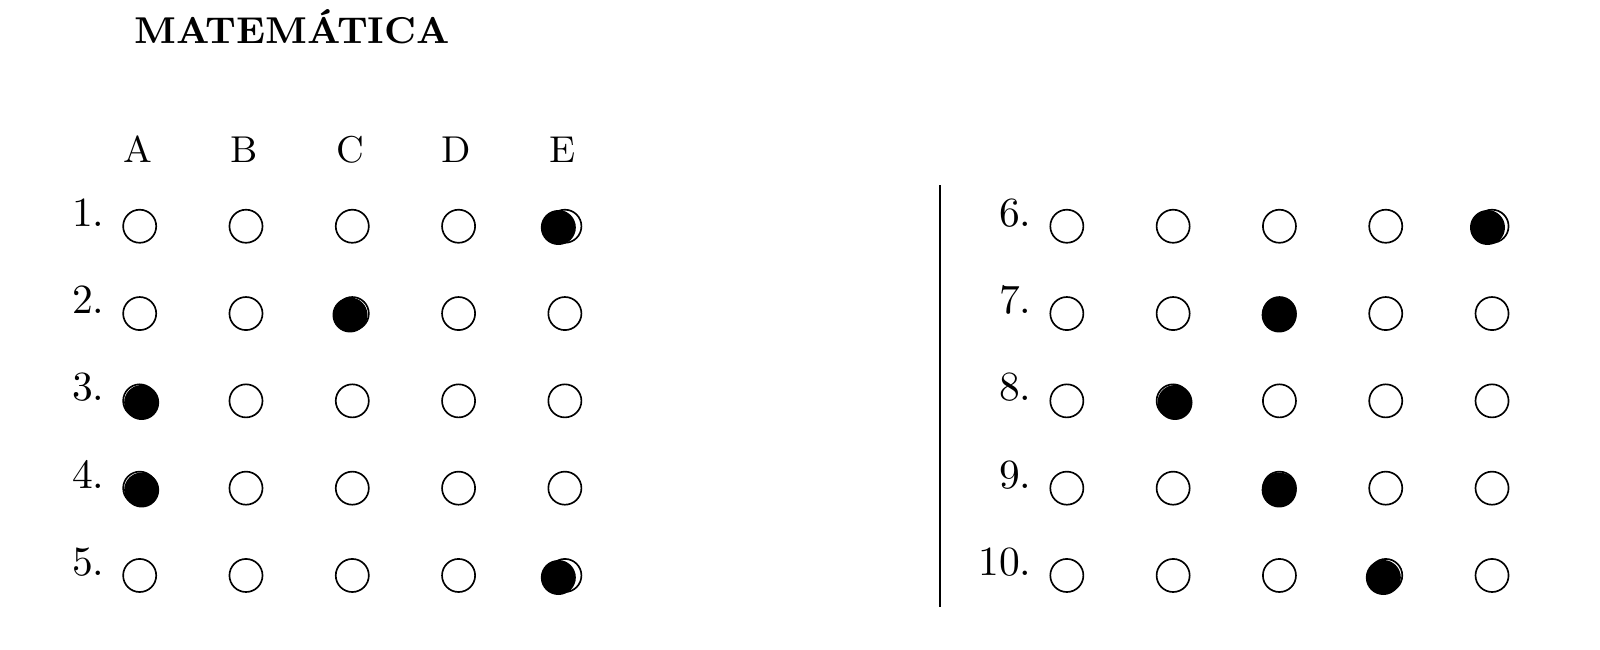
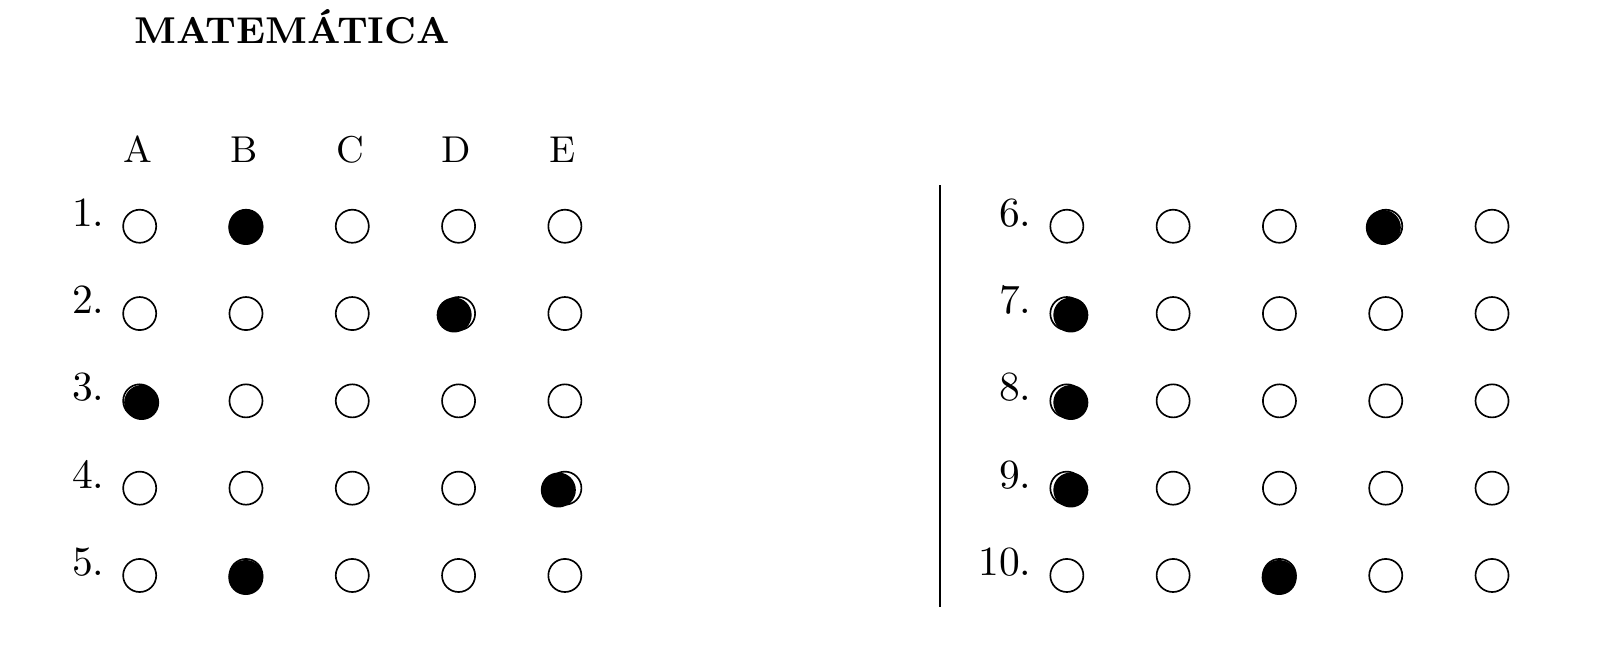
trying to fix the code read gabarito CNT - WIP

diff --git a/AI/gabarito_answered/readpngcnt.py b/AI/gabarito_answered/readpngcnt.py
@@ -64,7 +64,7 @@ circles = sorted(circles, key=lambda c: (c[1], c[0]))
 rows = []
 current_row = []
 last_y = None
-tol = 15  # tolerância para considerar mesma linha
+tol = 5  # tolerância para considerar mesma linha
 
 for (x, y, r) in circles:
     if last_y is None or abs(y - last_y) < tol:
@@ -100,8 +100,6 @@ for row in rows:
         ratio = filled / float(total)
         scores.append((ratio, i))
     
-    #ic(scores)
-
     best_ratio, best_idx = max(scores, key=lambda t: t[0])
     chosen = OPTIONS[best_idx] if best_ratio >= FILL_THRESHOLD else '-'
 
@@ -114,9 +112,17 @@ for row in rows:
     # Desenho na imagem
     for (ratio, i) in scores:
         x, y, r = row[i]
-        ic(row[i])
-        color = (0, 0, 255) if ratio >= FILL_THRESHOLD else (0, 0, 0)
-        cv2.circle(img_color, (x, y), r, color, 2)
+        if ratio > 0.8:
+            print(x, y, ratio)
+            color = (0, 0, 255)
+            cv2.circle(img_color, (x, y), r, color, 2)
+        
+        if x == 139 and y == 489:
+            color = (0, 255, 255)
+            cv2.circle(img_color, (x, y), r, color, 2)
+
+        #color = (0, 0, 255) if ratio >= FILL_THRESHOLD else (0, 0, 0)
+        #cv2.circle(img_color, (x, y), r, color, 2)
     #if chosen != '-':
     #    x, y, r = row[OPTIONS.index(chosen)]
     #    cv2.putText(img_color, chosen, (x - 10, y + 5),
